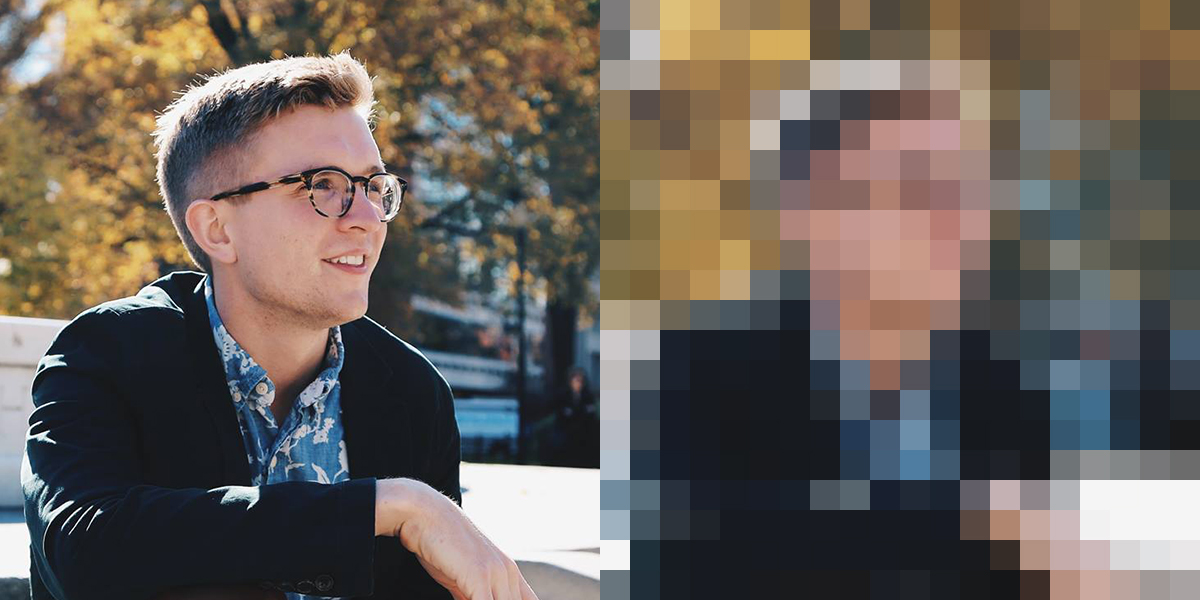
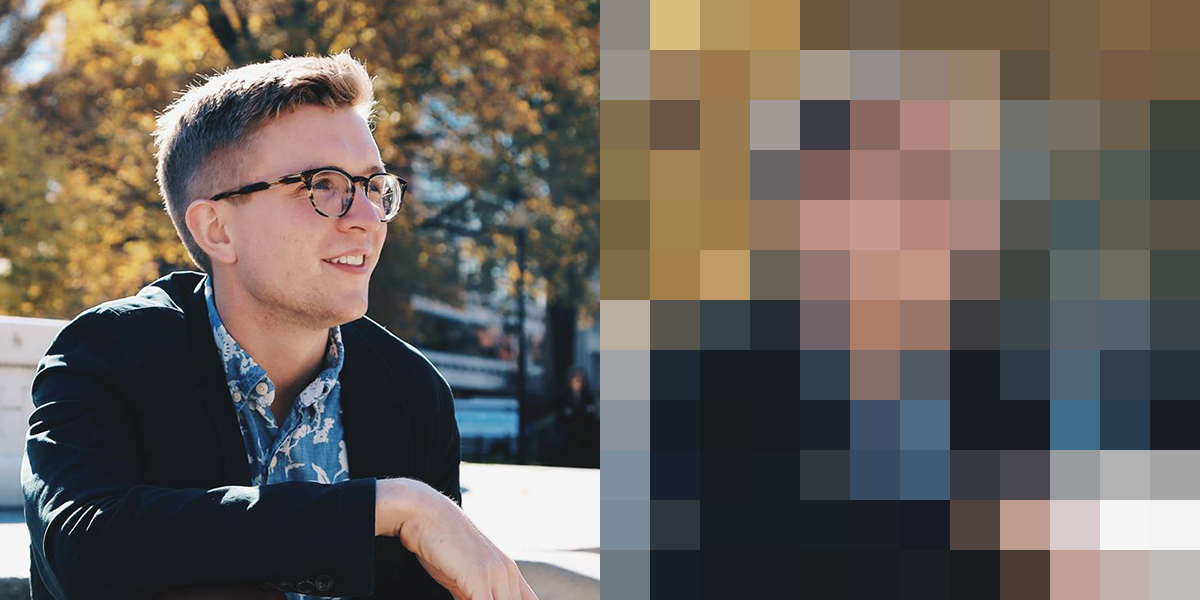
colorwar lite theme with photo hero

diff --git a/colorwar/index.html b/colorwar/index.html
@@ -6,62 +6,69 @@ class:	colorwar
 
 <div class="colorwar">
 
-<section>
-  <div class="container">
-    <img src="../img/colorwar-logo.svg">
-  </div>
-</section>
+	<div class="hero">
+		<section>
+			<div class="container">
+				<img src="../img/colorwar-logo.svg">
+			</div>
+		</section>
+	</div>
 
-<section class="info">
-  <h2 class="info-title">Calling all creatives!</h2>
-  <p class="info-text">
-    Welcome to Bitcamp's second annual COLORWAR design competition! COLORWAR is a chance for our Bitcamp participants and community to get their creative juices flowing in intense design challenges.
-  </p>
-  <a href="http://twitter.com/home?status=Put your image and message here! @bitcmp #COLORWAR" class="button">Submit Now</a>
-</section>
+	<section class="info" id="about">
+		<h2 class="info-title">Calling all creatives!</h2>
+		<p class="info-text">
+			Welcome to Bitcamp's second annual COLORWAR design competition! COLORWAR is a chance for our Bitcamp participants and community to get their creative juices flowing in intense design challenges.
+		</p>
+		<a href="http://twitter.com/home?status=Put your image and message here! @bitcmp #COLORWAR" class="button">Submit Now</a>
+	</section>
 
-<section class="info">
-  <h2 class="info-title">How It Work</h2>
-  <div class="howitworks">
-  	<h2>Part 1: Submissions</h2>
-  	<p class="info-text">
-  	  Create a visual that expresses your interpretation of "Imagine Tomorrow," this year's Bitcamp theme. Show us that image on Twitter with the hashtag #COLORWAR. In order to be selected for the next round, you must be registered and planning to attend Bitcamp, but everyone can submit for fun (and receive a COLORWAR sticker and shirt).
-  	</p>
-  </div>
-  <div class="howitworks">
-  	<h2>Part 2: The Main Event</h2>
-  	<p class="info-text">
-    We'll select five winners out of all the submissions for the main event at Bitcamp. Contestants will battle it out through five rounds of knockout design challenges. Judges and the crowd will determine one victor.
-  	</p>
-  </div>
-</section>
+	<section class="info">
+		<h2 class="info-title">How It Work</h2>
+		<div class="howitworks">
+			<h2>Part 1: Submissions</h2>
+			<p class="info-text">
+				Create a visual that expresses your interpretation of "Imagine Tomorrow," this year's Bitcamp theme. Show us that image on Twitter with the hashtag #COLORWAR.
+			</p>
+		</div>
+		<div class="howitworks">
+			<h2>Part 2: The Main Event</h2>
+			<p class="info-text">
+				We'll select five winners out of all the submissions for the main event at Bitcamp. Contestants will battle it out through five rounds of knockout design challenges. Judges and the crowd will determine one victor.
+			</p>
+		</div>
+	</section>
 
-<section class="info" id="prizes">
-  <h2 class="info-title">Prizes</h2>
-  <p class="info-text">
-    Everyone who submits will receive limited-edition COLORWAR shirts and stickers. The Top 5 contestants will compete for HD monitors, Wacom tablets, Pencils by FiftyThree, Dribbble invites, and more!
-  </p>
-</section>
+	<section class="info" id="prizes">
+		<h2 class="info-title">Prizes</h2>
+		<p class="info-text">
+			Everyone who submits will receive limited-edition COLORWAR shirts and stickers. The Top 5 contestants will compete for HD monitors, <a href="http://www.wacom.com/" target="_blank">Wacom tablets</a>, <a href="http://www.fiftythree.com/pencil" target="_blank">Pencils by FiftyThree</a>, <a href="http://dribbble.com" target="_blank">Dribbble invites</a>, and more!
+		</p>
+	</section>
 
-<section class="info" id="judges">
-  <h2 class="info-title">Judges</h2>
-  <div class="judge">
-  	<div class="judge-pic" id="ashley"></div>
-  	<p>Ashley Qian</p>
-  	<p class="job">Founder @ <a href="http://www.hackduke.com" target="_blank">HackDuke</a></p>
-  </div>
-  <div class="judge">
-  	<div class="judge-pic" id="chris"></div>
-  	<p>Chris Allen</p>
-  	<p class="job">Design Lead @ <a href="http://braveux.com" target="_blank">BraveUX</a></p>
-  </div>
-  <div class="judge">
-  	<div class="judge-pic" id="gira"></div>
-  	<p>Gira Patel</p>
-  	<p class="job">Head of Design @ <a href="http://bitca.mp" target="_blank">Bitcamp</a></p>
-  </div>
-</section>
+	<section class="info" id="judges">
+		<h2 class="info-title">Judges</h2>
+		<div class="judge">
+			<div class="judge-pic" id="ashley"></div>
+			<p>Ashley Qian</p>
+			<p class="job">Founder @ <a href="http://www.hackduke.com" target="_blank">HackDuke</a></p>
+		</div>
+		<div class="judge">
+			<div class="judge-pic" id="chris"></div>
+			<p>Chris Allen</p>
+			<p class="job">Design Lead @ <a href="http://braveux.com" target="_blank">BraveUX</a></p>
+		</div>
+		<div class="judge">
+			<div class="judge-pic" id="gira"></div>
+			<p>Gira Patel</p>
+			<p class="job">Head of Design @ <a href="http://bitca.mp" target="_blank">Bitcamp</a></p>
+		</div>
+	</section>
 
-<section class="full photo-feature" id="photo-3"></section>
+	<section class="info" id="note">
+		<h2 class="info-title">*</h2>
+		<p class="info-text">
+			In order to be selected for the main event, you must be registered and planning to attend Bitcamp, but everyone can submit for fun (and receive a COLORWAR sticker and shirt).
+		</p>
+	</section>
 
 </div>

diff --git a/_sass/_colorwar.scss b/_sass/_colorwar.scss
@@ -2,13 +2,11 @@
 
 .colorwar {
 
-	background: $dark-blue;
-	padding-top: 1.5em;
-
+	// background: $dark-blue;
 
 	section, .section {
-		padding-top: 1.25*$space;
-		padding-bottom: 1.25*$space;
+		padding-top: $space;
+		padding-bottom: $space;
 	}
 
 	h2 {
@@ -17,37 +15,56 @@
 
 	.hero {
 		background: $dark-blue;
+		@include background-image("/img/photo-colorwar.jpg");
+		padding: 4*$space 0;
+		margin-bottom: $space;
 
 		img {
-			height: 6em;
 			max-width: 80%;
 		}
 
 	}
 
-	.button {
-		margin-top: $space;
+	#about {
+		p {
+			margin-bottom: 1.5em;
+		}
 	}
 
 	.info {
 		.info-title {
-			color: $yellow-orange;
+			color: $orange;
 		}
 		.info-text {
-			color: $white;
+			color: $dark-blue;
 		}
+		a {
+			color: inherit;
+			&:hover {
+				color: $orange;
+			}
+		}
+
 	}
 
 	.howitworks {
 		@include span-columns(6);
+		@include media($mobile) {
+			@include span-columns(4);
+			@include omega;
+		}
 		margin-top: 1em;
 		h2 {
-			color: $white;
+			color: $dark-blue;
 			font-weight: 400;
-			border-bottom: 1px solid $white;
+			border-bottom: 2px solid $yellow-orange;
 			padding-bottom: .5em;
 			display: inline-block;
 			margin: 0 auto 1em;
+			text-transform: none;
+		}
+		p {
+			font-size: .75em;
 		}
 	}
 
@@ -76,10 +93,6 @@
 
 			}
 			p {
-				color: $white;
-				a {
-					color: inherit;
-				}
 				&.job {
 					font-family: $sans;
 
@@ -90,5 +103,13 @@
 		}
 	}
 
+	#note {
+		@include span-columns(6);
+		@include shift(3);
+		@include clearfix;
+		p {
+			font-size: .625em;
+		}
+	}
 
 }

diff --git a/_sass/_ui.scss b/_sass/_ui.scss
@@ -14,7 +14,10 @@
   font-weight: bold;
   text-align: center;
   text-transform: uppercase;
-  color: $white;
+  color: $white !important;
+  &:hover {
+    color: rgba(255,255,255,.9) !important;
+  }
 }
 
 .social-links {

diff --git a/_sass/_footer.scss b/_sass/_footer.scss
@@ -1,4 +1,5 @@
 footer {
+	clear: both;
 	text-align: center;
 
 	p {
